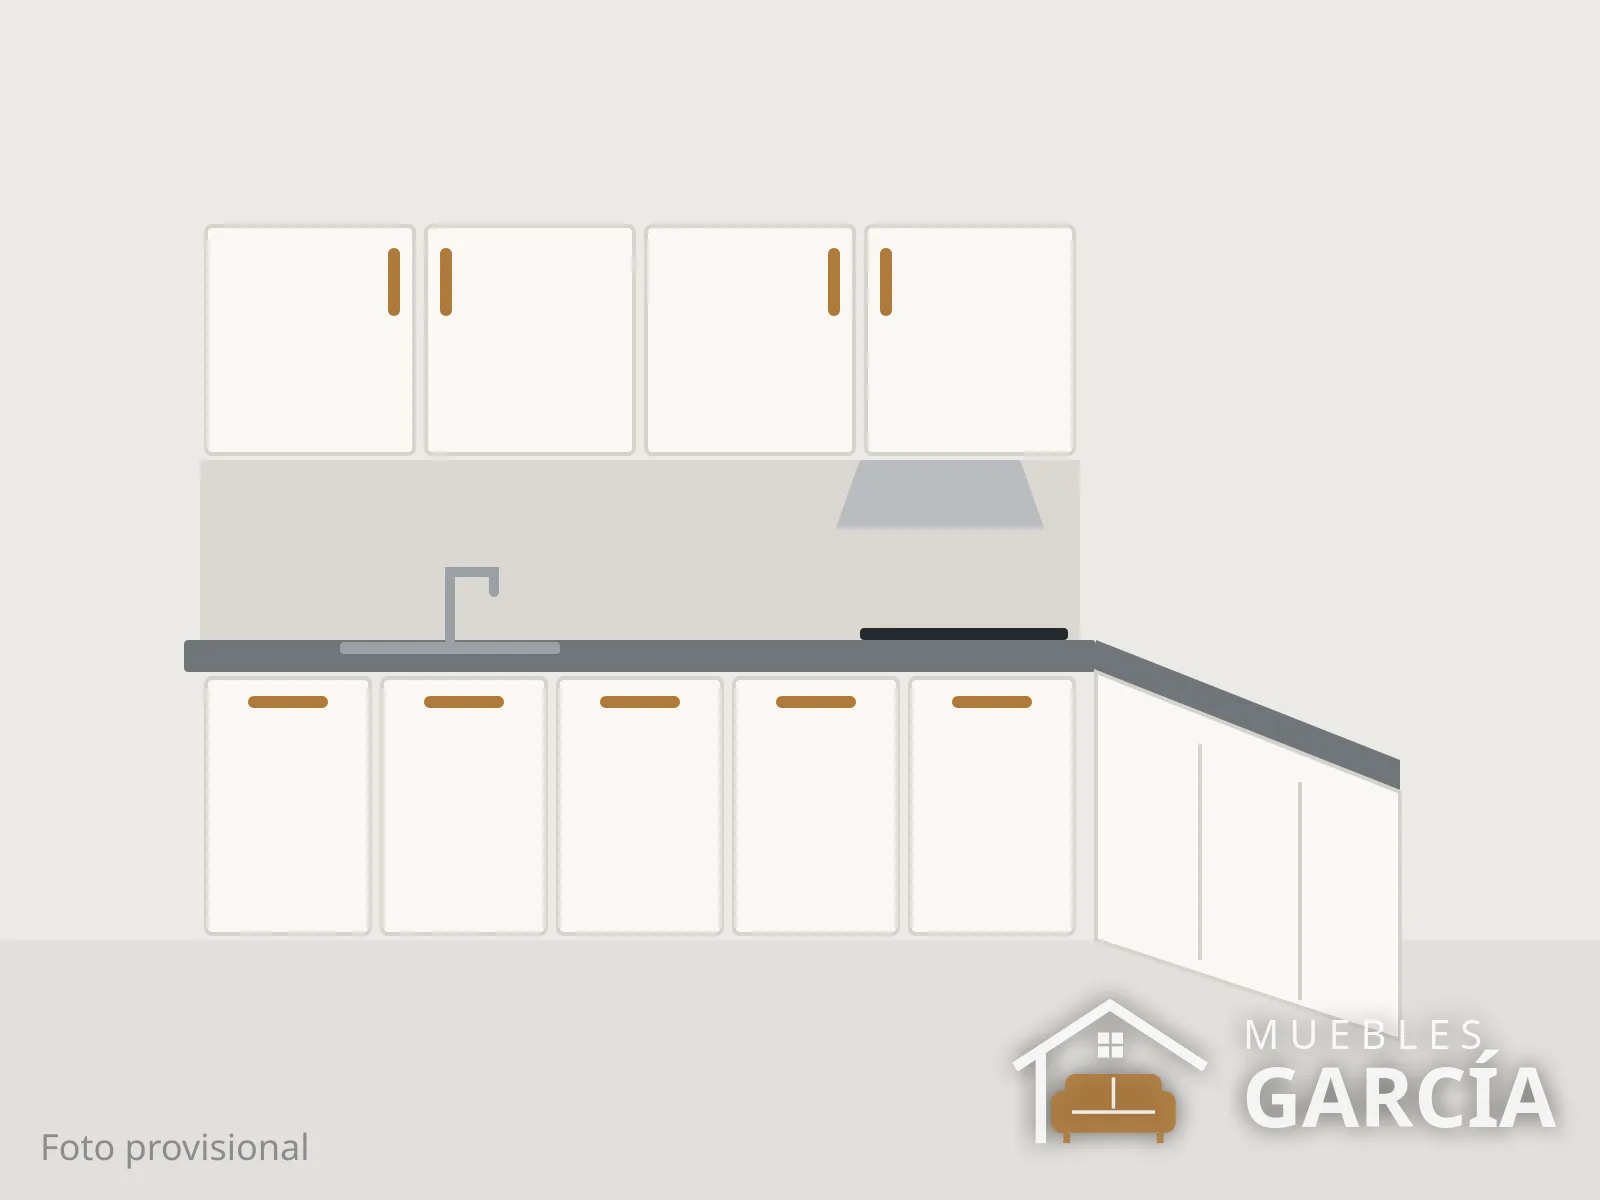
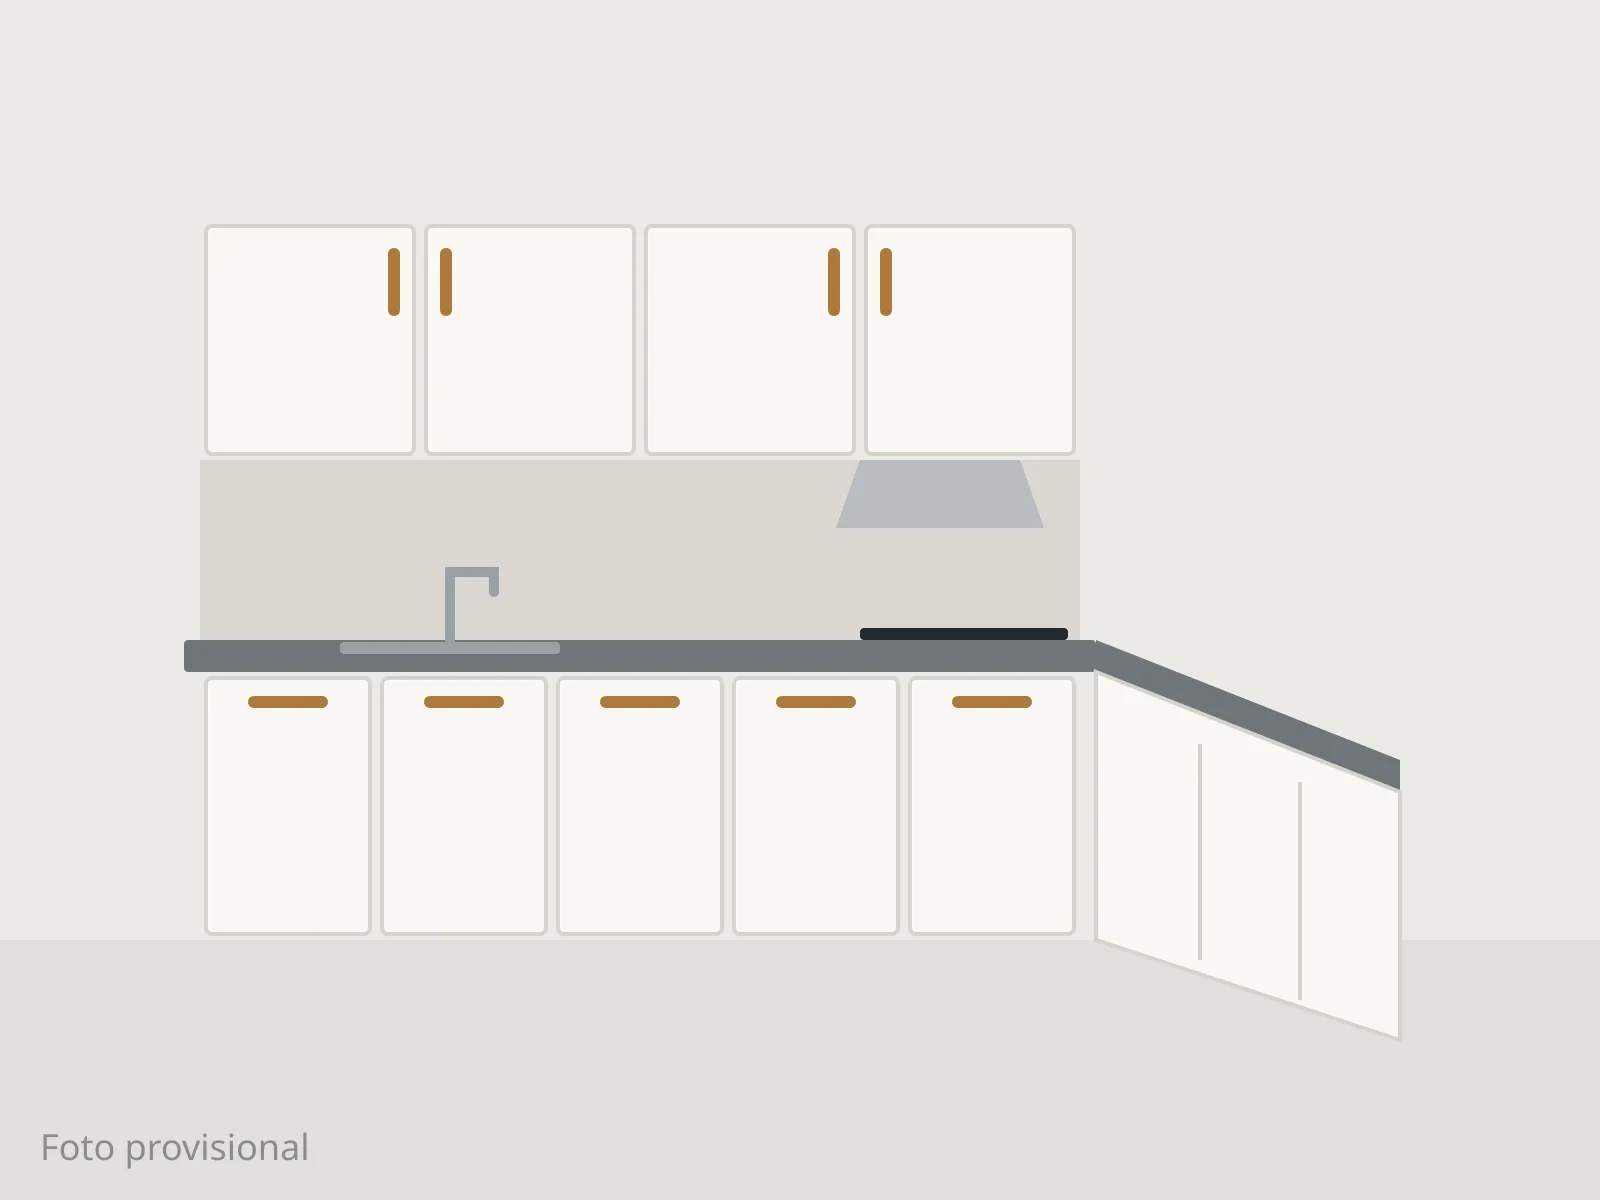
cambio: dibujos de ejemplo sin marca y fotos con huella para evitar caché vieja

Changed region(s): [[0.625, 0.8325, 0.9688, 0.9558]]

diff --git a/src/imagenes.ts b/src/imagenes.ts
@@ -1,0 +1,20 @@
+// Direcciones de imágenes de public/ con una huella de su contenido (?v=…).
+// Cuando una foto cambia, cambia su dirección y los navegadores bajan la nueva
+// en lugar de mostrar la que tenían guardada.
+import { readFileSync } from 'node:fs';
+import { createHash } from 'node:crypto';
+
+const huellas = new Map<string, string>();
+
+export function urlImagen(ruta: string) {
+  let huella = huellas.get(ruta);
+  if (!huella) {
+    huella = createHash('md5').update(readFileSync(`public${ruta}`)).digest('hex').slice(0, 8);
+    huellas.set(ruta, huella);
+  }
+  return `${ruta}?v=${huella}`;
+}
+
+export function fotoProducto(codigo: string, archivo: string) {
+  return urlImagen(`/img/productos/${codigo.toLowerCase()}/${archivo}`);
+}

diff --git a/CLAUDE.md b/CLAUDE.md
@@ -93,7 +93,7 @@ fecha_alta: 2026-10-22
 Reglas:
 - Nunca publicar precios de mayoreo.
 - Las fotos deben ser propias de la mueblería (no de catálogos de proveedores sin permiso).
-- Toda foto publicada lleva el logotipo como marca de agua (esquina inferior derecha). Nunca subir a `public/` una foto sin marca. Si la foto no es 4:3, el script pone la marca dentro de la zona central 4:3 (la que se ve en las tarjetas); la ficha del producto muestra la foto completa. Las fotos de las casas de inicio (`public/img/portadas/`) también las genera el script (lista `PORTADAS`). Ninguna imagen de producto se publica sin pasar por `npm run fotos`.
+- Toda foto real publicada lleva el logotipo como marca de agua (esquina inferior derecha). Los dibujos de ejemplo (originales `.svg`) se publican sin marca. Nunca subir a `public/` una foto sin pasar por `npm run fotos`. Si la foto no es 4:3, el script pone la marca dentro de la zona central 4:3 (la que se ve en las tarjetas); la ficha del producto muestra la foto completa. Las fotos de las casas de inicio (`public/img/portadas/`) también las genera el script (lista `PORTADAS`). Ninguna imagen de producto se publica sin pasar por `npm run fotos`.
 - El repositorio es público: cotizaciones, contratos y datos privados van en `privado/` (ignorado por Git), nunca en archivos versionados.
 - Un commit por solicitud de mantenimiento, con mensaje del tipo `alta: SAL-012 Sala Milán`.
 
@@ -148,3 +148,4 @@ Reglas:
 | 2026-10-29 | **Todas** las imágenes del sitio en vivo llevan marca de agua: también los dibujos provisionales de Comedores (ahora WebP) y las portadas de inicio, que el script recorta en vertical. |
 | 2026-10-29 | Nueva categoría **Cocinas integrales** (`/cocinas/`, prefijo `COC`), con 3 productos de ejemplo y dibujos provisionales con marca de agua. En el menú aparece como "Cocinas"; en celular el menú baja a su propio renglón. |
 | 2026-10-29 | Rediseño de inicio: portada con degradado cálido "luz de tarde" (marfil → ocre, con resplandor detrás de las casas) y las casas de categorías sobre una línea de piso común. Banda oscura de mayoreo con luz ocre y banda piedra de "Visita la tienda" al final. |
+| 2026-10-29 | Los dibujos de ejemplo (`.svg`) van **sin** marca de agua; todas las fotos reales sí la llevan. Las direcciones de las imágenes llevan una huella del contenido (`?v=…`, `src/imagenes.ts`) para que los navegadores bajen la foto nueva en cuanto cambia. |

diff --git a/mantenimiento/bitacora.md b/mantenimiento/bitacora.md
@@ -9,3 +9,4 @@
 | 2026-10-29 | Alta | REC-004 | Recámara Klarisa, $18,900. 5 piezas (cabecera con LED, cajonera, zapatera con espejo giratorio, 2 burós). Medidas tomadas del catálogo. Foto **temporal** recortada del catálogo del proveedor, con marca de agua. Reemplazar por foto propia. |
 | 2026-10-29 | Cambio | COM-001 a COM-003 | Dibujos provisionales convertidos a WebP con marca de agua (originales SVG en `privado/fotos-originales/`). Portadas de inicio generadas con marca en `public/img/portadas/`. |
 | 2026-10-29 | Alta (ejemplo) | COC-001 a COC-003 | Nueva categoría Cocinas integrales con 3 productos de ejemplo y dibujos provisionales (con marca de agua). Reemplazar por los reales. |
+| 2026-10-29 | Cambio | COM-001 a COM-003, COC-001 a COC-003 | Dibujos de ejemplo sin marca de agua. Las fotos llevan `?v=<huella>` en su dirección para que ningún navegador muestre versiones viejas (sin marca). |

diff --git a/README.md b/README.md
@@ -15,7 +15,7 @@ npm run build    # genera el sitio en dist/
 
 - Datos: un archivo por producto en `src/content/productos/<codigo>.md`.
 - Fotos: la original (sin marca) va en `privado/fotos-originales/<codigo>/` (fuera de Git).
-  `npm run fotos` le pone el logotipo como marca de agua, la optimiza (WebP, ≤ 200 KB)
+  `npm run fotos` le pone el logotipo como marca de agua (los dibujos `.svg` de ejemplo van sin marca), la optimiza (WebP, ≤ 200 KB)
   y la guarda en `public/img/productos/<codigo>/`. También genera las fotos de las casas de
   inicio en `public/img/portadas/` (lista `PORTADAS` del script). No edites a mano las de `public/`.
 - WhatsApp, dirección y horario: `src/config.ts`.
